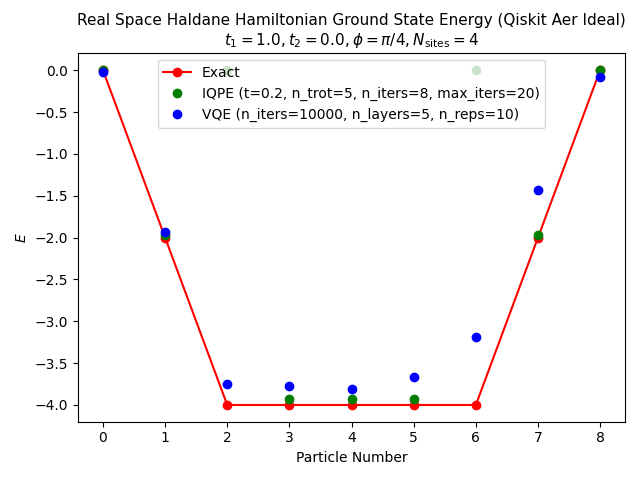
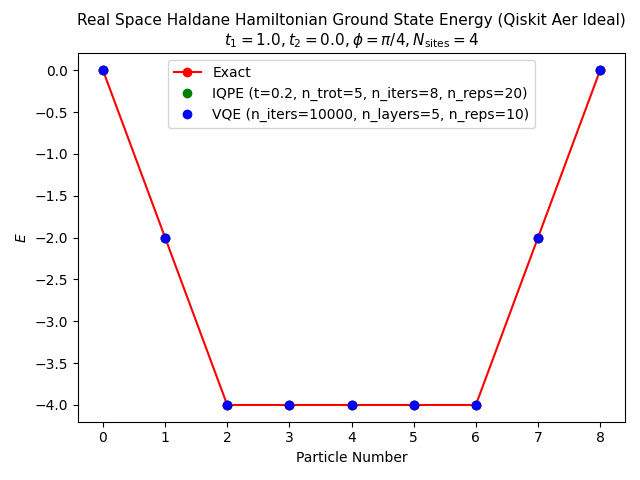
Tested new benchmarking script

diff --git a/scripts/haldane-model/real_space_simulated_ideal.py b/scripts/haldane-model/real_space_simulated_ideal.py
@@ -25,6 +25,8 @@ for n_occ in range(spin * n_sites + 1):
         jobs.append(delayed(real_space_iqpe)(n_sites, t1, t2, phi, n_occ, mapper, t, iqpe_trot, iqpe_iters, rep))
     for rep in range(1, vqe_reps+1):
         jobs.append(delayed(real_space_vqe)(n_sites, t1, t2, phi, n_occ, mapper, vqe_iters, vqe_layers, vqe_reps))
+    jobs.append(delayed(iqpe_other_benchmarks)(n_sites, t1, t2, phi, n_occ, mapper, t, iqpe_trot, iqpe_iters, iqpe_reps))
+    jobs.append(delayed(vqe_other_benchmarks)(n_sites, t1, t2, phi, n_occ, mapper, vqe_iters, vqe_layers, vqe_reps))
 
 def init_worker_logging():
     from utils import setup_logging
@@ -32,17 +34,16 @@ def init_worker_logging():
 
 results = Parallel(n_jobs=-1, initializer=init_worker_logging)(jobs)
 
-exact = results[::1+iqpe_reps+vqe_reps]
-iqpe = [min(j for j in res if j >= -2*n_sites-1) for res in [results[i:i+iqpe_reps] for i in range(1, n_occ*(1+iqpe_reps+vqe_reps), 1+iqpe_reps+vqe_reps)]]
-vqe = [min(res) for res in [results[i:i+vqe_reps] for i in range(1+iqpe_reps, n_occ*(1+iqpe_reps+vqe_reps), 1+iqpe_reps+vqe_reps)]]
+exact = results[::3+iqpe_reps+vqe_reps]
+iqpe = [min(j for j in res if j >= -2*n_sites-1) for res in [results[i:i+iqpe_reps] for i in range(1, (spin*n_sites+1)*(3+iqpe_reps+vqe_reps), 3+iqpe_reps+vqe_reps)]]
+vqe = [min(res) for res in [results[i:i+vqe_reps] for i in range(1+iqpe_reps, (spin*n_sites+1)*(3+iqpe_reps+vqe_reps), 3+iqpe_reps+vqe_reps)]]
+iqpe_other_benchmarks = results[1+iqpe_reps+vqe_reps::3+iqpe_reps+vqe_reps]
+vqe_other_benchmarks = results[2+iqpe_reps+vqe_reps::3+iqpe_reps+vqe_reps]
 
 logger = setup_logging(debug_enabled=not args.no_debug)
 for i in range(spin*n_sites+1):
     logger.info(f"IQPE (n_sites={n_sites}, n_occ={n_occ}) = {iqpe[i]}")
     logger.info(f"VQE (n_sites={n_sites}, n_occ={n_occ}) = {vqe[i]}")
-
-iqpe_other_benchmarks = [iqpe_other_benchmarks(n_sites, t1, t2, phi, n_occ, mapper, t, iqpe_trot, iqpe_iters, iqpe_reps) for n_occ in range(spin*n_sites+1)]
-vqe_other_benchmarks = [vqe_other_benchmarks(n_sites, t1, t2, phi, n_occ, mapper, vqe_iters, vqe_layers, vqe_reps) for n_occ in range(spin*n_sites+1)]
 
 data = {
     "result": {
@@ -66,7 +67,7 @@ data = {
     }
 }
 
-file_path = os.path.join(os.getcwd(), "..", "..", "cache/haldane-model/real-space/"+str(n_sites)+"-sites/simulated-ideal-t2-"+str(t2)+".json")
+file_path = os.path.join(os.getcwd(), "cache/haldane-model/real-space/"+str(n_sites)+"-sites/simulated-ideal-t2-"+str(t2)+".json")
 with open(file_path, "w") as f:
     json.dump(data, f, indent=4)
 
@@ -80,5 +81,5 @@ plt.ylabel("$E$")
 plt.title("Real Space Haldane Hamiltonian Ground State Energy (Qiskit Aer Ideal)\n$t_1="+str(t1)+", t_2="+str(t2)+", \\phi=\\pi/"+str(int(np.pi/phi))+", N_{\\text{sites}}="+str(n_sites)+"$", fontsize=11)
 plt.tight_layout()
 
-file_path = os.path.join(os.getcwd(), "..", "..", "plots/haldane-model/real-space/"+str(n_sites)+"-sites/simulated-ideal-t2-"+str(t2)+".png")
+file_path = os.path.join(os.getcwd(), "plots/haldane-model/real-space/"+str(n_sites)+"-sites/simulated-ideal-t2-"+str(t2)+".png")
 plt.savefig(file_path)

diff --git a/scripts/haldane-model/utils.py b/scripts/haldane-model/utils.py
@@ -159,7 +159,7 @@ def real_space_EP_ansatz(n_sites: int, n_layers: int, n_occ: int):
     ansatz.compose(excitation_preserving(n_sites*spin, "fsim", "linear", reps=n_layers), inplace=True)
     return ansatz
 
-def iqpe_estimate(unitary: QuantumCircuit, state_preparation: QuantumCircuit, num_iterations: int, sampler: Sampler):
+def iqpe_estimate(unitary: QuantumCircuit, state_preparation: QuantumCircuit, num_iterations: int, sampler: Sampler, n_sites: int, n_occ: int, rep: int):
     omega_coef = 0
 
     for k in range(num_iterations, 0, -1):
@@ -172,6 +172,8 @@ def iqpe_estimate(unitary: QuantumCircuit, state_preparation: QuantumCircuit, nu
         x = 1 if result.get(1, 0) > result.get(0, 0) else 0
 
         omega_coef = omega_coef + x / 2
+
+        logger.debug(f"IQPE (n_sites={n_sites}, n_occ={n_occ}, repetition {rep}, iteration {num_iterations-k+1}) = {omega_coef}")
 
     return omega_coef
 
@@ -318,7 +320,7 @@ def real_space_iqpe(n_sites: int, t1: float, t2: float, phi: float, n_occ: int, 
     else:
         sampler = Sampler()
 
-    phase = iqpe_estimate(evolution, initial, n_iters, sampler)
+    phase = iqpe_estimate(evolution, initial, n_iters, sampler, n_sites, n_occ, rep)
     res = -2*np.pi*phase/t
 
     logger.debug(f"IQPE (n_sites={n_sites}, n_occ={n_occ}, repetition {rep}) = {res}")
@@ -345,8 +347,9 @@ def iqpe_other_benchmarks(n_sites: int, t1: float, t2: float, phi: float, n_occ:
         qc = transpile(qc, backend=simulator, optimization_level=3)
         full_circuit_depth += qc.depth()
         two_gate_circuit_depth += qc.depth(lambda x: x.operation.num_qubits == 2)
+        logger.debug(f"IQPE other benchmarks (n_sites={n_sites}, n_occ={n_occ}, iteration {n_iters-k+1}): circuit_depth=[{qc.depth(), qc.depth(lambda x: x.operation.num_qubits == 2)}]")
     
     num_queries = qubit_hamiltonian.size*iqpe_reps*n_trot*n_iters
 
-    logger.info(f"IQPE other benchmarks (n_sites={n_sites}, n_occ={n_occ}): num_queries={num_queries}, circuit_depth=[{full_circuit_depth},{two_gate_circuit_depth}]")
-    return num_queries, (full_circuit_depth, two_gate_circuit_depth)
+    logger.info(f"IQPE other benchmarks (n_sites={n_sites}, n_occ={n_occ}): num_queries={num_queries}, circuit_depth=[{full_circuit_depth // n_iters},{two_gate_circuit_depth // n_iters}]")
+    return num_queries, (full_circuit_depth // n_iters, two_gate_circuit_depth // n_iters)
